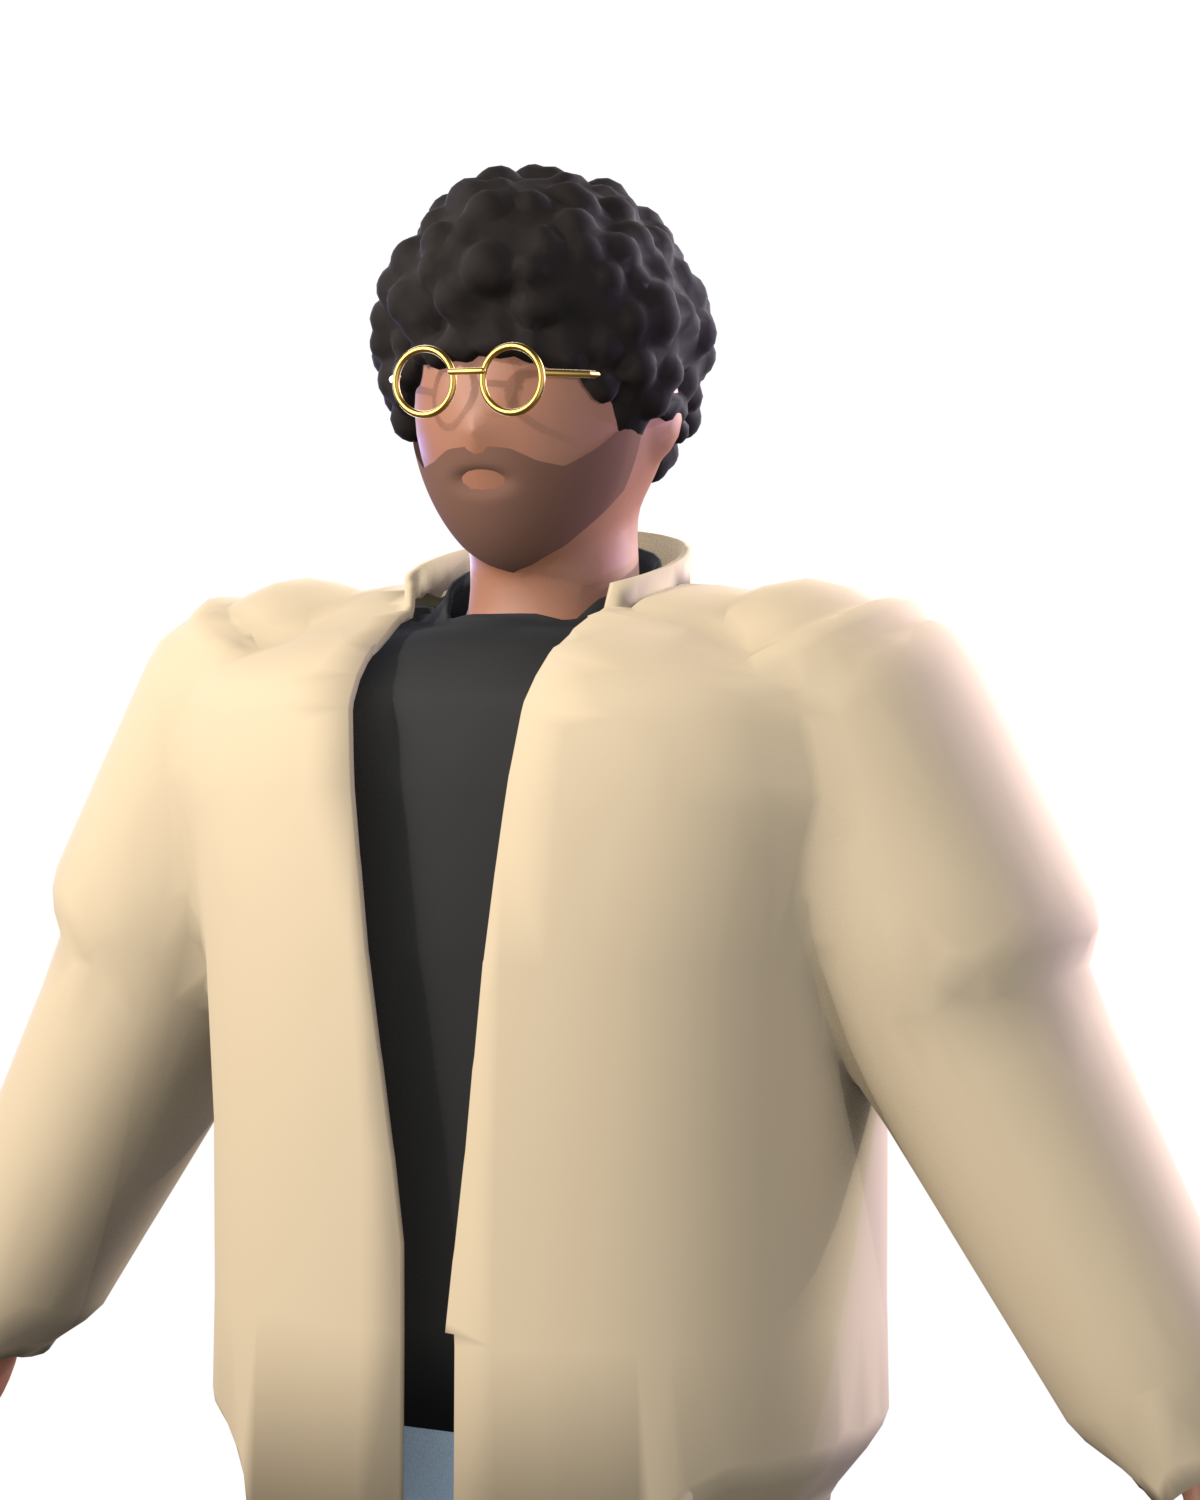
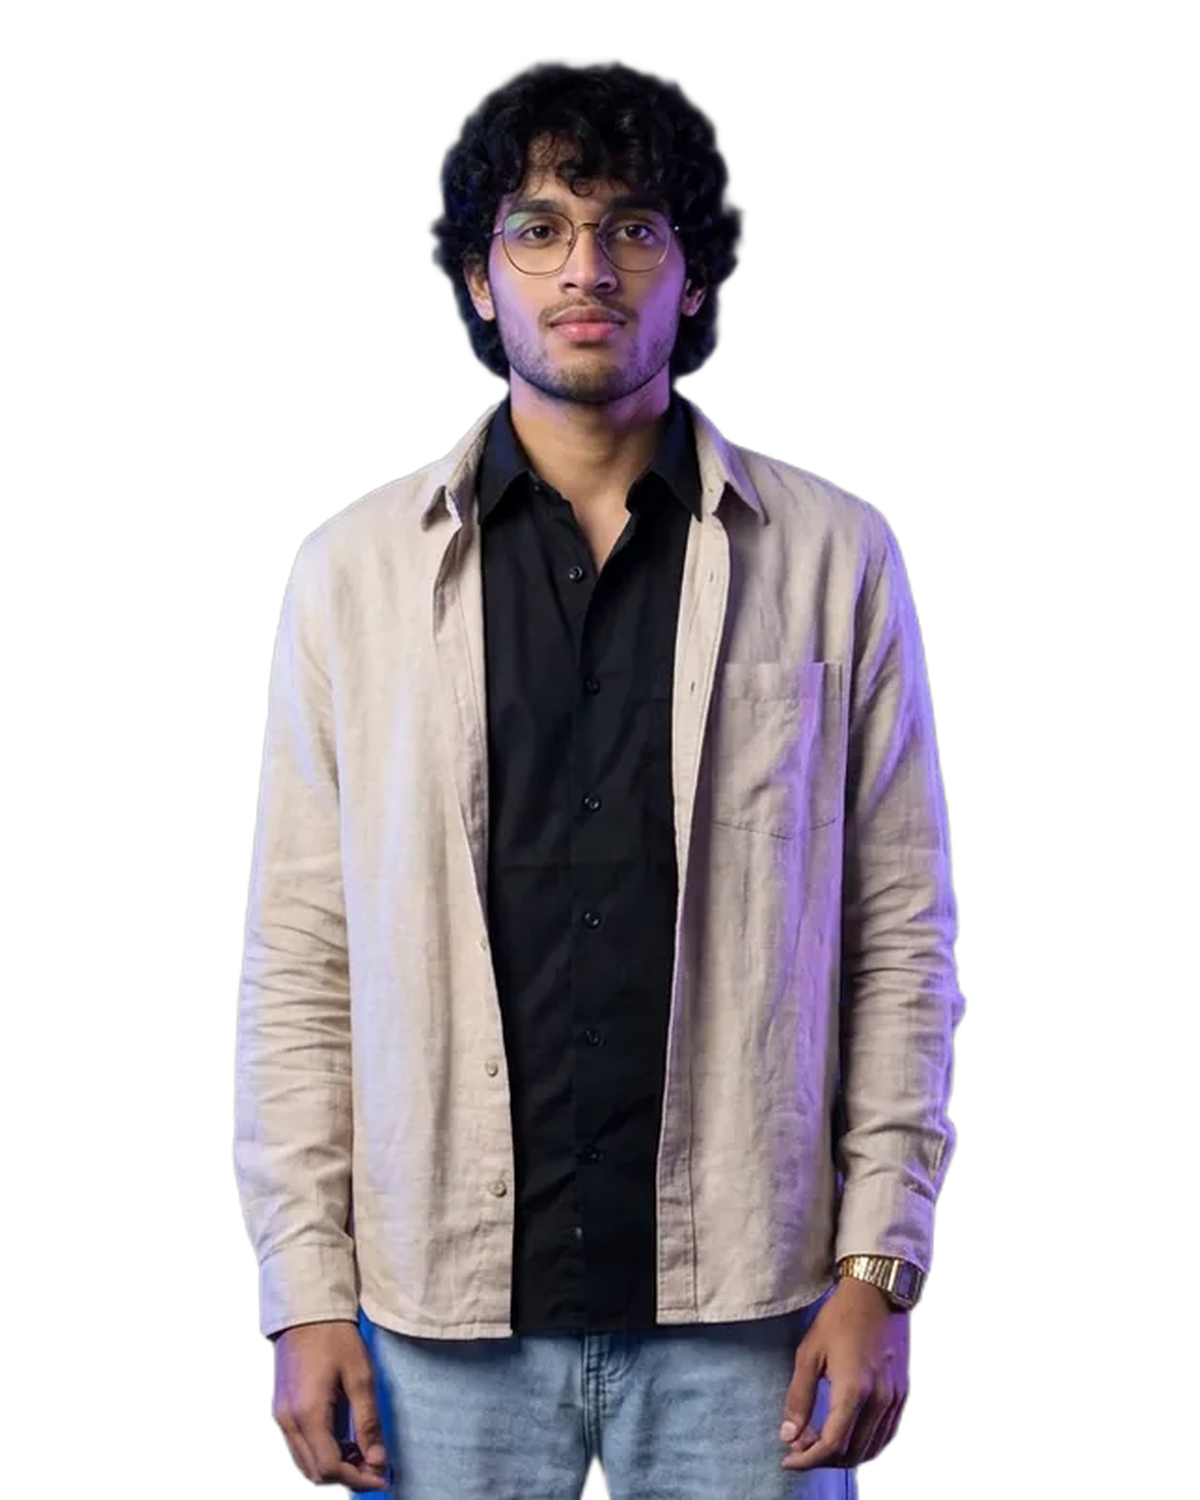
Posters use the photoreal cutouts (default look, or the locked look); persona.png is now a photoreal portrait

diff --git a/web/index.html b/web/index.html
@@ -34,18 +34,21 @@
         var p = document.getElementById('poster'), q = new URLSearchParams(location.search), path = location.pathname
         if (/^\/(bag|checkout|orders|store)/.test(path)) { p.remove(); return }
         var h
+        var DEF = 'KK-001,KT-002,KT-006,LL-006,SH-001,SW-001'
+        var NAME = '<div class="name">HRISHIKESH HUNDEKARI</div><div class="sub">SHOP-UNI-FY · SMALL BUSINESS AI BUILDER TOUR · BENGALURU</div>'
+        function cut(k) { return '<img class="portrait" src="/looks/' + k + '.webp" data-fb="/looks/' + DEF + '.webp" alt="">' }
         if (path.indexOf('/product') === 0) {
           var sku = (q.get('sku') || '').replace(/[^A-Za-z0-9-]/g, '').toUpperCase()
           h = '<img class="contain" src="/products/' + sku + '.webp" alt="">'
-        } else if (q.get('mode') === 'persona') {
-          h = '<div class="name">HRISHIKESH HUNDEKARI</div><div class="sub">SHOP-UNI-FY · SMALL BUSINESS AI BUILDER TOUR · BENGALURU</div>' +
-              '<img class="portrait" src="/brand/persona.png" alt="">'
+        } else if (q.get('mode') === 'locked' && q.get('look')) {
+          var k = q.get('look').split(',').map(function (s) { return s.trim().toUpperCase().replace(/[^A-Z0-9-]/g, '') }).filter(Boolean).sort().join(',')
+          h = NAME + cut(k)
         } else {
-          h = '<img class="cover" src="/brand/hero.jpg" alt="">'
+          h = NAME + cut(DEF)
         }
         p.innerHTML = h + '<div class="tag">SHOP-UNI-FY · SETTING THE STAGE</div><div class="bar"></div>'
         var img = p.querySelector('img')
-        if (img) { if (img.complete) img.classList.add('in'); else img.onload = function () { img.classList.add('in') } ; img.onerror = function () { img.remove() } }
+        if (img) { img.onload = function () { img.classList.add('in') }; img.onerror = function () { var fb = img.getAttribute('data-fb'); if (fb && img.src.indexOf(fb) < 0) { img.src = fb } else { img.remove() } }; if (img.complete && img.naturalWidth) img.classList.add('in') }
         var done = false
         function hide() { if (done) return; done = true; p.classList.add('gone'); setTimeout(function () { p.remove() }, 900) }
         window.addEventListener('stage:ready', function () { requestAnimationFrame(function () { requestAnimationFrame(hide) }) })
